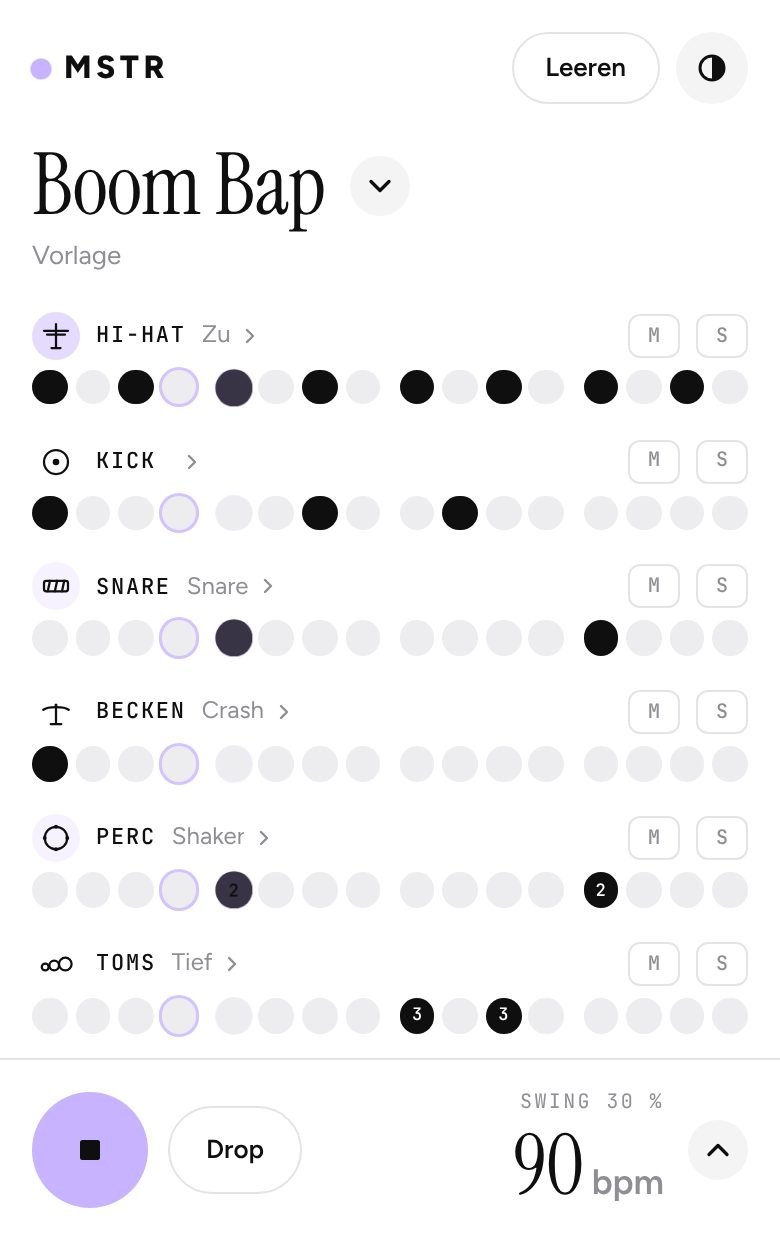
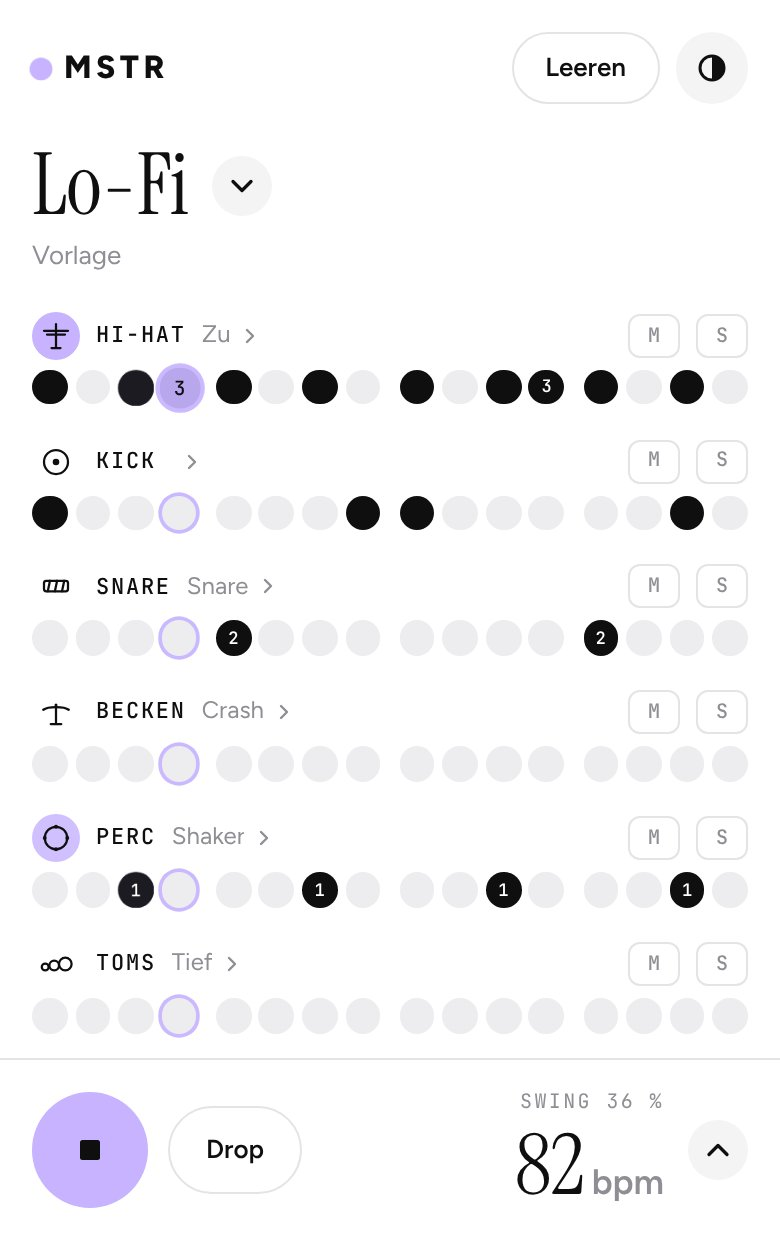
MSTR aktualisiert: neue Vorlagen (mstr PR #5)
App neu aus mbroyer/mstr gebaut und kopiert, Vorschaubilder 1 und 2 neu,
Alt-Texte auf Lo-Fi und die neue Liste angepasst.

Claude-Session: https://claude.ai/code/session_01WCtGHUwzgaWDRgVuY9QRVF

diff --git a/mstr/spiel/index.html b/mstr/spiel/index.html
@@ -200,7 +200,7 @@ input[type=range]::-moz-range-thumb{width:20px;height:20px;border-radius:50%;bac
     </div>
   </header>
   <div class="head">
-    <button type="button" class="preset" id="preBtn" aria-haspopup="dialog"><span id="preName">Boom Bap</span><svg viewBox="0 0 24 24" aria-hidden="true"><path d="M6 9l6 6 6-6" fill="none" stroke="currentColor" stroke-width="2.2" stroke-linecap="round" stroke-linejoin="round"/></svg></button>
+    <button type="button" class="preset" id="preBtn" aria-haspopup="dialog"><span id="preName">Lo-Fi</span><svg viewBox="0 0 24 24" aria-hidden="true"><path d="M6 9l6 6 6-6" fill="none" stroke="currentColor" stroke-width="2.2" stroke-linecap="round" stroke-linejoin="round"/></svg></button>
     <p class="sub" id="sub">Vorlage</p>
   </div>
   <main class="tracks" id="tracks" aria-label="Spuren"></main>
@@ -254,21 +254,21 @@ function getAC(){
 var _oc=null,_og=null;
 function OUT(){if(_oc!==ac){_oc=ac;var g=ac.createGain();g.gain.value=2.8;var c=ac.createDynamicsCompressor();c.threshold.value=-14;c.knee.value=12;c.ratio.value=10;c.attack.value=.003;c.release.value=.15;g.connect(c);c.connect(ac.destination);_og=g;}return _og;}
 
-/* 13 Vorlagen (Stil, Tempo, Swing, Kick/Snare/Hat über 32 Schritte) */
+/* 13 Vorlagen (Stil, Tempo, Swing, Kick/Snare/Hat; genutzt werden die ersten 16 Schritte). Die erste ist die Start-Vorlage */
 var BEATS=[
-  {n:'boombap',bpm:90,sw:.30,K:'x.....x..x......x.....x..x.x....',S:'....x.......x.......x.......x...',H:'x.x.x.x.x.x.x.x.x.x.x.x.x.x.x.x.',hv:[.16,.09],fill:'snare'},
+  {n:'lofi',bpm:82,sw:.36,K:'x......xx.....x.x......xx.....x.',S:'....o.......o.......o.......o...',H:'x.xox.x.x.xox.x.x.xox.x.x.xox.x.',hv:[.12,.07],fill:'tom'},
   {n:'house',bpm:116,sw:0,K:'x...x...x...x...x...x...x...x...',S:'....c.......c.......c.......c...',H:'..O...O...O...O...O...O...O...O.',hv:[.2,.2],fill:'tom',clap:true},
   {n:'funk',bpm:102,sw:.16,K:'x..x..x...x..x..x..x.x....x..x..',S:'....x..o....x..o....x..o....x...',H:'xoxoxoxoxoxoxoxoxoxoxoxoxoxoxoxo',hv:[.14,.07],fill:'snare'},
   {n:'rock',bpm:108,sw:.05,K:'x.x...x.x..x....x.x...x.x..x....',S:'....x.......x.......x.......x...',H:'x.x.x.x.x.x.x.x.x.x.x.x.x.x.x.x.',hv:[.2,.12],fill:'tom'},
   {n:'techno',bpm:138,sw:0,K:'x...x...x...x...x...x...x...x.x.',S:'....c.......c.......c.......c...',H:'xxOxxxOxxxOxxxOxxxOxxxOxxxOxxxOx',hv:[.15,.09],fill:'snare'},
   {n:'trap',bpm:136,sw:0,K:'x.....x...x.....x.......x.x.....',S:'........x.......c.......x.......',H:'x.x.x.x.xxxx.x.xx.x.x.x.xxxxx.x.',hv:[.16,.1],fill:'snare'},
-  {n:'disco',bpm:120,sw:0,K:'x...x...x...x...x...x...x...x...',S:'....c.......c.......c.......c...',H:'x.O.x.O.x.O.x.O.x.O.x.O.x.O.x.O.',hv:[.13,.17],fill:'snare'},
+  {n:'onedrop',bpm:76,sw:.3,K:'........x...............x.......',S:'........o...............o.......',H:'x.x.x.x.x.x.x.O.x.x.x.x.x.x.x.O.',hv:[.12,.07],fill:'tom'},
   {n:'bossa',bpm:126,sw:0,K:'x..x..x.x..x..x.x..x..x.x..x..x.',S:'..o..o..o..o..o...o..o..o..o..o.',H:'x.x.x.x.x.x.x.x.x.x.x.x.x.x.x.x.',hv:[.12,.08],fill:'tom'},
   {n:'dnb',bpm:168,sw:0,K:'x.........x.....x...........x...',S:'....x.......x.......x.......x...',H:'x.x.x.x.x.x.x.x.x.x.x.x.x.x.x.x.',hv:[.14,.09],fill:'snare'},
-  {n:'shuffle',bpm:100,sw:.5,K:'x.......x.......x.......x.......',S:'....x.......x.......x.......x...',H:'x.x.x.x.x.x.x.x.x.x.x.x.x.x.x.x.',hv:[.17,.1],fill:'tom'},
-  {n:'afro',bpm:108,sw:.1,K:'x..x..x...x.x...x..x..x...x.x...',S:'....x..o....x..o....x..o....x...',H:'xoxoxoxoxoxoxoxoxoxoxoxoxoxoxoxo',hv:[.13,.07],fill:'tom'},
+  {n:'shuffle',bpm:100,sw:.5,K:'x.....x.x.....x.x.....x.x.....x.',S:'....x..o....x.......x..o....x...',H:'x.x.x.x.x.x.x.x.x.x.x.x.x.x.x.x.',hv:[.17,.1],fill:'tom'},
+  {n:'reggaeton',bpm:95,sw:0,K:'x...x...x...x...x...x...x...x...',S:'...x..x....x..x....x..x....x..x.',H:'x.x.x.x.x.x.x.x.x.x.x.x.x.x.x.x.',hv:[.14,.08],fill:'snare'},
   {n:'minimal',bpm:126,sw:.08,K:'x...x...x...x...x...x...x...x...',S:'................c.......c.......',H:'..O...O.o.O...O...O...O.o.O...Oo',hv:[.14,.08],fill:'tom'},
-  {n:'hardtechno',bpm:148,sw:0,K:'x...x...x...x.x.x...x...x...x.xx',S:'....c.......c.......c.....c.c...',H:'x.x.O.x.x.x.O.x.x.x.O.x.x.x.O.xx',hv:[.17,.1],fill:'snare'}
+  {n:'twostep',bpm:132,sw:.3,K:'x.........x..x..x.........x..x..',S:'....c.......c.......c.......c...',H:'..x.x.O...x.x.Ox..x.x.O...x.x.Ox',hv:[.14,.08],fill:'snare'}
 ];
 
 /* ===== Klang: alle Spuren per Web Audio erzeugt, über einen Bus mit Hall, Delay, Sättigung und Sidechain ===== */
@@ -441,23 +441,23 @@ function dropRec(id){delete REC[id];lsSet('mstr-rec-'+id,null);}
 (function(){
   /* Vorschläge zum Würfeln für Becken, Perc, Toms, FX und die eigene Aufnahme (16 Schritte) */
   var COMMON={cym:['c...............','r.r.r.r.r.r.r.r.','..r...r...r...r.'],click:['1.1.1.1.1.1.1.1.','....2.......2...','3..3..3...3.3...'],toms:['b...p...b...p...','b.......t.t.....','b..b....p...tt..'],fx:['....m.......m...','n.....n...n.....','............z...'],mic:['....a.......a...','a.......a.a.....','..a...a...a.h.t.']};
-  var NM={boombap:'Boom Bap',house:'House',funk:'Funk',rock:'Rock',techno:'Techno',trap:'Trap',disco:'Disco',bossa:'Bossa',dnb:"Drum'n'Bass",shuffle:'Shuffle',afro:'Afro',minimal:'Minimal',hardtechno:'Hardtechno'};
+  var NM={lofi:'Lo-Fi',house:'House',funk:'Funk',rock:'Rock',techno:'Techno',trap:'Trap',onedrop:'One Drop',bossa:'Bossa',dnb:"Drum'n'Bass",shuffle:'Shuffle',reggaeton:'Reggaeton',minimal:'Minimal',twostep:'2-Step'};
   /* Je Vorlage eigene Muster für Becken, Perc, Toms und FX. Becken: c Crash, r Ride, h China. Perc: 1 Shaker, 2 Tamburin, 3 Clave, 4 Conga, 5 Cowbell.
      FX: m Snap, n Sub, s Reverse, l Wirbel, z Riser. Riser und Reverse dauern vier Schritte, auf Schritt 13 laufen sie genau in die nächste Eins */
   var EXTRA={
-    boombap:['c...............','....2.......2...','........t.t.....','............l...'],
+    lofi:['................','..1...1...1...1.','................','..............n.'],
     house:['r.r.r.r.r.r.r.r.','1.11.11.1.11.11.','................','............z...'],
     funk:['c...............','....2..4....2.4.','......t.......p.','....m.......m...'],
     rock:['c...............','....2.......2...','..........t.t...','............s...'],
     techno:['..r...r...r...r.','1.1.1.1.1.1.1.1.','............tt..','............z...'],
     trap:['c...............','..........3.....','......t.......tt','n.....n...n.....'],
-    disco:['c...............','2.2.2.2.2.2.2.2.','................','............s...'],
+    onedrop:['................','..3...3...3...3.','.............ttp','................'],
     bossa:['r.r.r.r.r.r.r.r.','3..3..3...3.3...','..t..t..t..t..t.','................'],
     dnb:['c...............','1.1.1.1.1.1.1.1.','..........p...tt','............z...'],
     shuffle:['r.r.r.r.r.r.r.r.','....2.......2...','..........t..t..','............l...'],
-    afro:['c...............','5.5.4.5.5.5.4.5.','t..t..t.t..t..t.','....m.......m...'],
+    reggaeton:['c...............','..2...2...2...2.','................','............z...'],
     minimal:['..............h.','......3.......3.','..............t.','............s...'],
-    hardtechno:['..r...r...r...r.','1.1.1.1.1.1.1.1.','................','............z...']};
+    twostep:['................','1.1.1.1.1.1.1.1.','................','............s...']};
 
   /* Spur-Icons: feine Linien, 24er Raster */
   var ICON={
@@ -512,13 +512,16 @@ function dropRec(id){delete REC[id];lsSet('mstr-rec-'+id,null);}
     var add=function(a,d){if(Array.isArray(a)&&a.length===7)a.push(d);};
     add(P.g,zero());add(P.vol,.8);add(P.mute,false);add(P.solo,false);add(P.br,'a');P.v=3;
   }
+  /* Stand v3: Boom Bap, Disco, Afro und Hardtechno sind ersetzt (durch Lo-Fi, One Drop, Reggaeton, 2-Step).
+     Wer eine davon geladen hatte, behält das Muster, es heißt dann Eigener Beat */
+  if(P&&P.v===3){if([0,6,10,12].indexOf(P.pre)>=0)P.pre=-1;P.v=4;}
   if(P&&clean(P.g)){pat=clean(P.g);bpm=Math.round(num(P.bpm,60,180,100));sw=num(P.sw,0,.6,0);pre=P.pre|0;if(pre<-1||pre>=BEATS.length)pre=-1;edited=!!P.ed;}
   else{pat=empty();fromBeat(0);}
   vol=arr(P&&P.vol,function(x){return num(x,0,1,.8);},.8);
   mute=arr(P&&P.mute,function(x){return !!x;},false);
   solo=arr(P&&P.solo,function(x){return !!x;},false);
   if(P&&Array.isArray(P.br)&&P.br.length===R)brush=brush.map(function(d,r){return sndIx(r,P.br[r])>=0?P.br[r]:d;});
-  function persist(){S.pat={v:3,g:pat,bpm:bpm,sw:sw,vol:vol,mute:mute,solo:solo,pre:pre,ed:edited,br:brush};save();}
+  function persist(){S.pat={v:4,g:pat,bpm:bpm,sw:sw,vol:vol,mute:mute,solo:solo,pre:pre,ed:edited,br:brush};save();}
   function anySolo(){return solo.some(Boolean);}
   function audible(r){return anySolo()?solo[r]:!mute[r];}
   function gainOf(r){return Math.pow(vol[r]/.8,1.6);} /* 80 % entspricht dem Originalpegel */

diff --git a/mstr/index.html b/mstr/index.html
@@ -43,8 +43,8 @@ body{margin:0;min-height:100vh;background:var(--bg);color:var(--ink);font:400 16
   <p class="say">gesprochen „Muster“</p>
   <p class="lead">Beats bauen im Browser. Acht Spuren, sechzehn Schritte, dazu ein eigener Klang übers Mikrofon.</p>
   <div class="shots">
-    <figure><img src="vorschau-1.jpg" alt="Das Raster mit sieben Spuren, die Vorlage Boom Bap läuft" width="390" height="620"><figcaption>Tippen, und der Beat läuft</figcaption></figure>
-    <figure><img src="vorschau-2.jpg" alt="Liste der Vorlagen nach Tempo, von Boom Bap bis Disco" width="390" height="620" loading="lazy"><figcaption>13 Vorlagen zum Loslegen</figcaption></figure>
+    <figure><img src="vorschau-1.jpg" alt="Das Raster, die Vorlage Lo-Fi läuft" width="390" height="620"><figcaption>Tippen, und der Beat läuft</figcaption></figure>
+    <figure><img src="vorschau-2.jpg" alt="Liste der Vorlagen nach Tempo, von One Drop bis House" width="390" height="620" loading="lazy"><figcaption>13 Vorlagen zum Loslegen</figcaption></figure>
     <figure><img src="vorschau-3.jpg" alt="Die Spur Aufnahme mit dem Aufnahmeknopf" width="390" height="620" loading="lazy"><figcaption>Eigenen Klang aufnehmen</figcaption></figure>
   </div>
   <ol class="steps">
